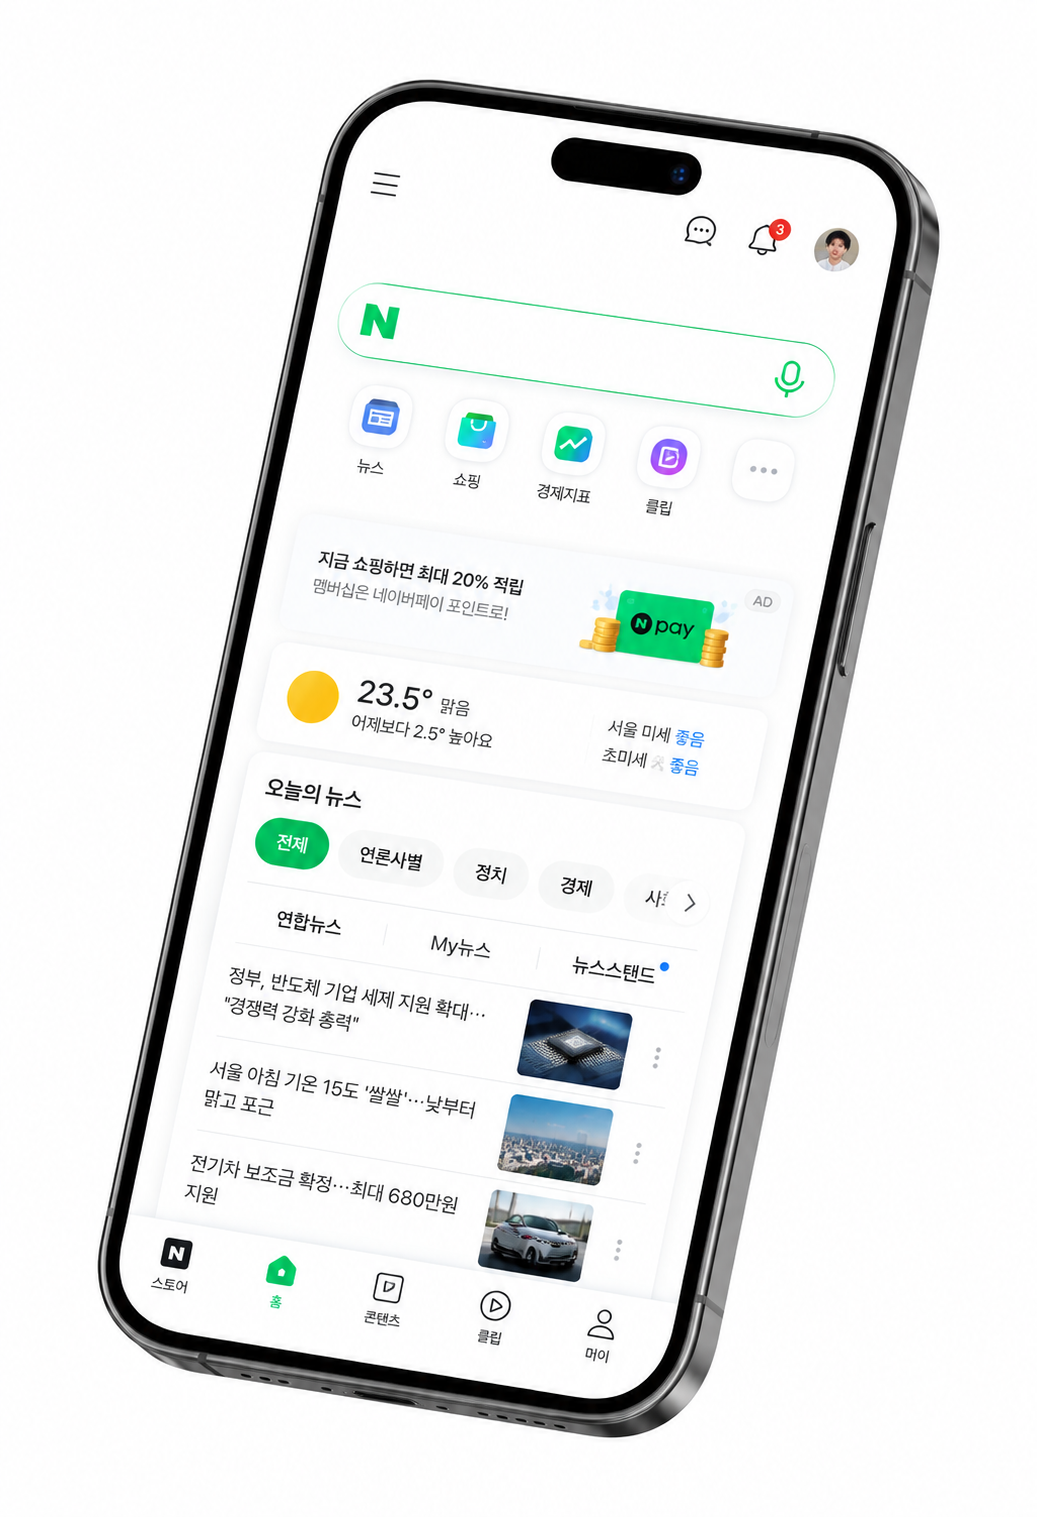
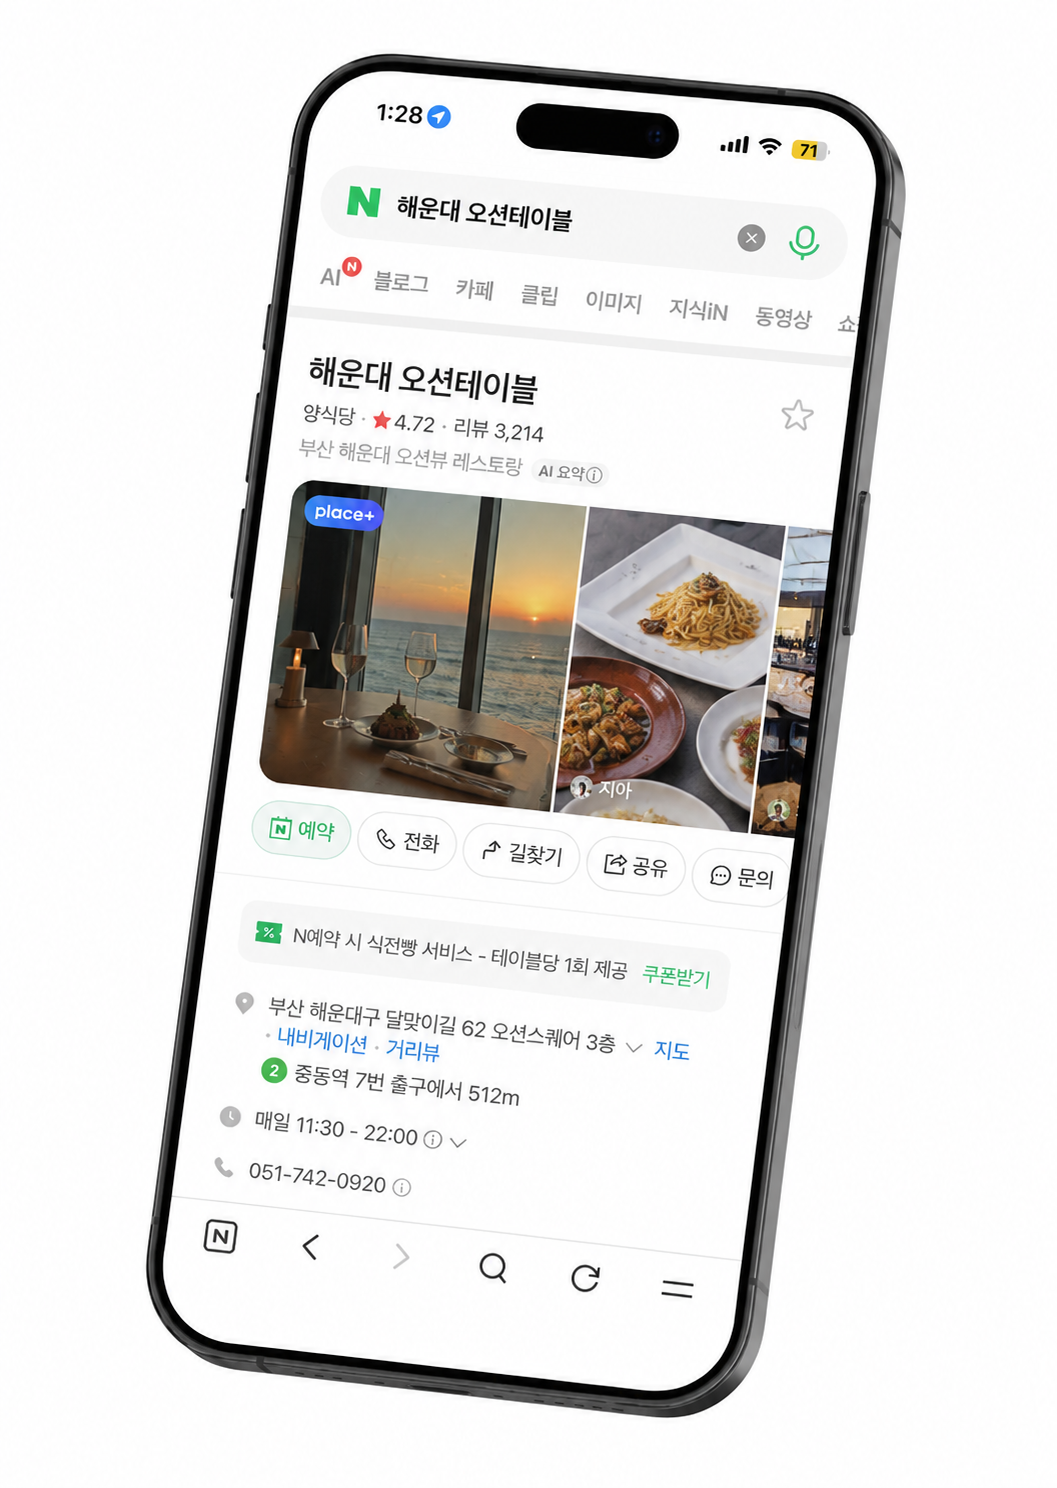
feat: 바이럴 지면 네이버 목업을 검색 결과 화면으로 교체
플레이스에 브랜드 정보와 리뷰가 노출되는 자리를 보여 주는 그림으로 바꾼다.
비율이 1:1.46 에서 1:1.41 로 바뀌어 width/height 와 폭 상한 주석의 세로
계산값도 함께 맞춘다.

Changed region(s): [[0.0926, 0.0309, 0.9257, 0.9583], [0.5554, 0.1855, 0.6789, 0.2164], [0.432, 0.1855, 0.5246, 0.2164]]

diff --git a/components/viral-channels.tsx b/components/viral-channels.tsx
@@ -128,16 +128,16 @@ export default function ViralChannels() {
             <Reveal delay={140} className="reveal-x order-first md:order-none">
               <Image
                 src="/images/service/viral/naver-app-mockup.png"
-                alt="네이버 앱 화면 — 검색, 쇼핑, 플레이스 등 브랜드가 노출되는 자리"
-                width={1037}
-                height={1517}
+                alt="네이버 검색 결과 화면 — 플레이스에 브랜드 정보와 리뷰가 노출되는 자리"
+                width={1057}
+                height={1488}
                 /* 폭에 상한을 둔다. 칸(1fr)을 그대로 채우면 넓은 화면에서
-                   630px까지 자라 세로가 920px를 넘고, 왼쪽 본문(제목+설명+
-                   알약)이 그 옆에서 초라해진다. 세로로 긴 그림(1:1.46)이라
+                   630px까지 자라 세로가 880px를 넘고, 왼쪽 본문(제목+설명+
+                   알약)이 그 옆에서 초라해진다. 세로로 긴 그림(1:1.41)이라
                    폭보다 키가 먼저 부담이 된다 — 상한이 곧 이 줄의 높이다.
-                   예전에는 lg에서 300px까지만 열어 뒀는데(세로 440px), 목업
+                   예전에는 lg에서 300px까지만 열어 뒀는데(세로 420px), 목업
                    안의 앱 화면이 뭘 보여 주는지 알아볼 수 없을 만큼 작았다.
-                   400px(세로 585px)까지 열어 화면 속 내용이 읽히게 한다. */
+                   400px(세로 563px)까지 열어 화면 속 내용이 읽히게 한다. */
                 sizes="(min-width: 768px) 400px, 100vw"
                 className="mx-auto h-auto w-full max-w-[300px] md:max-w-[340px] lg:max-w-[400px]"
               />
